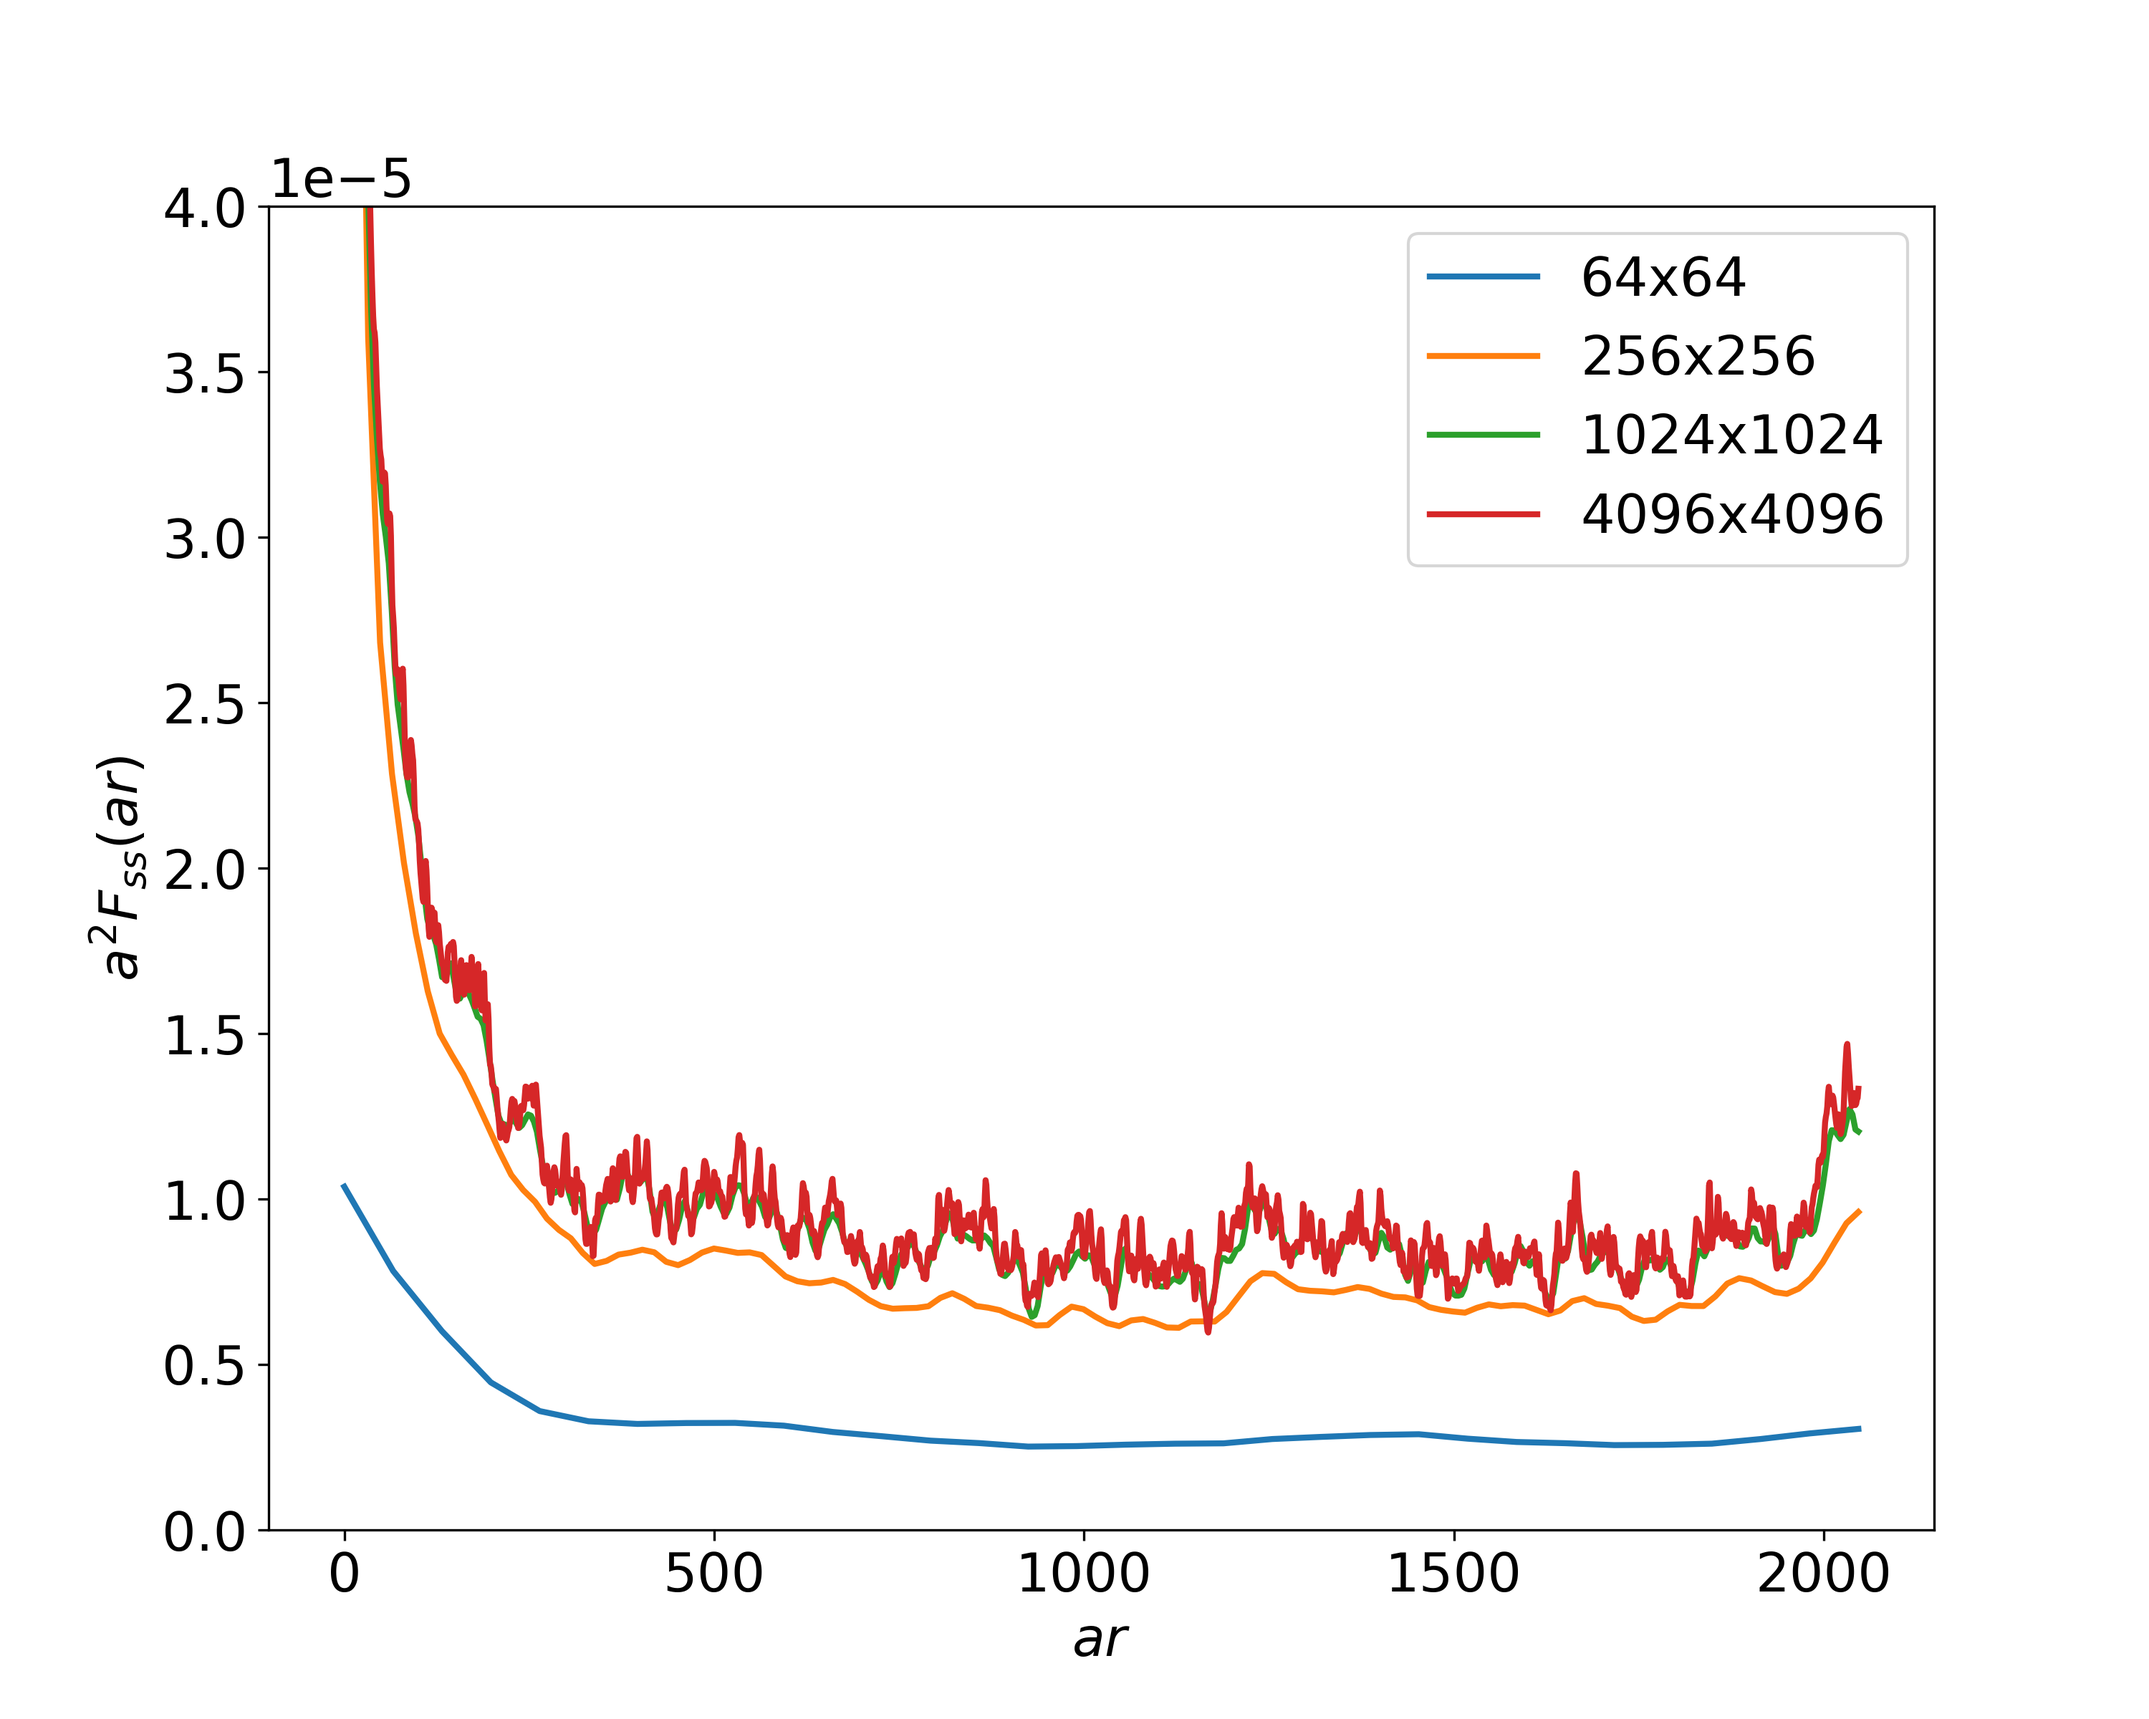
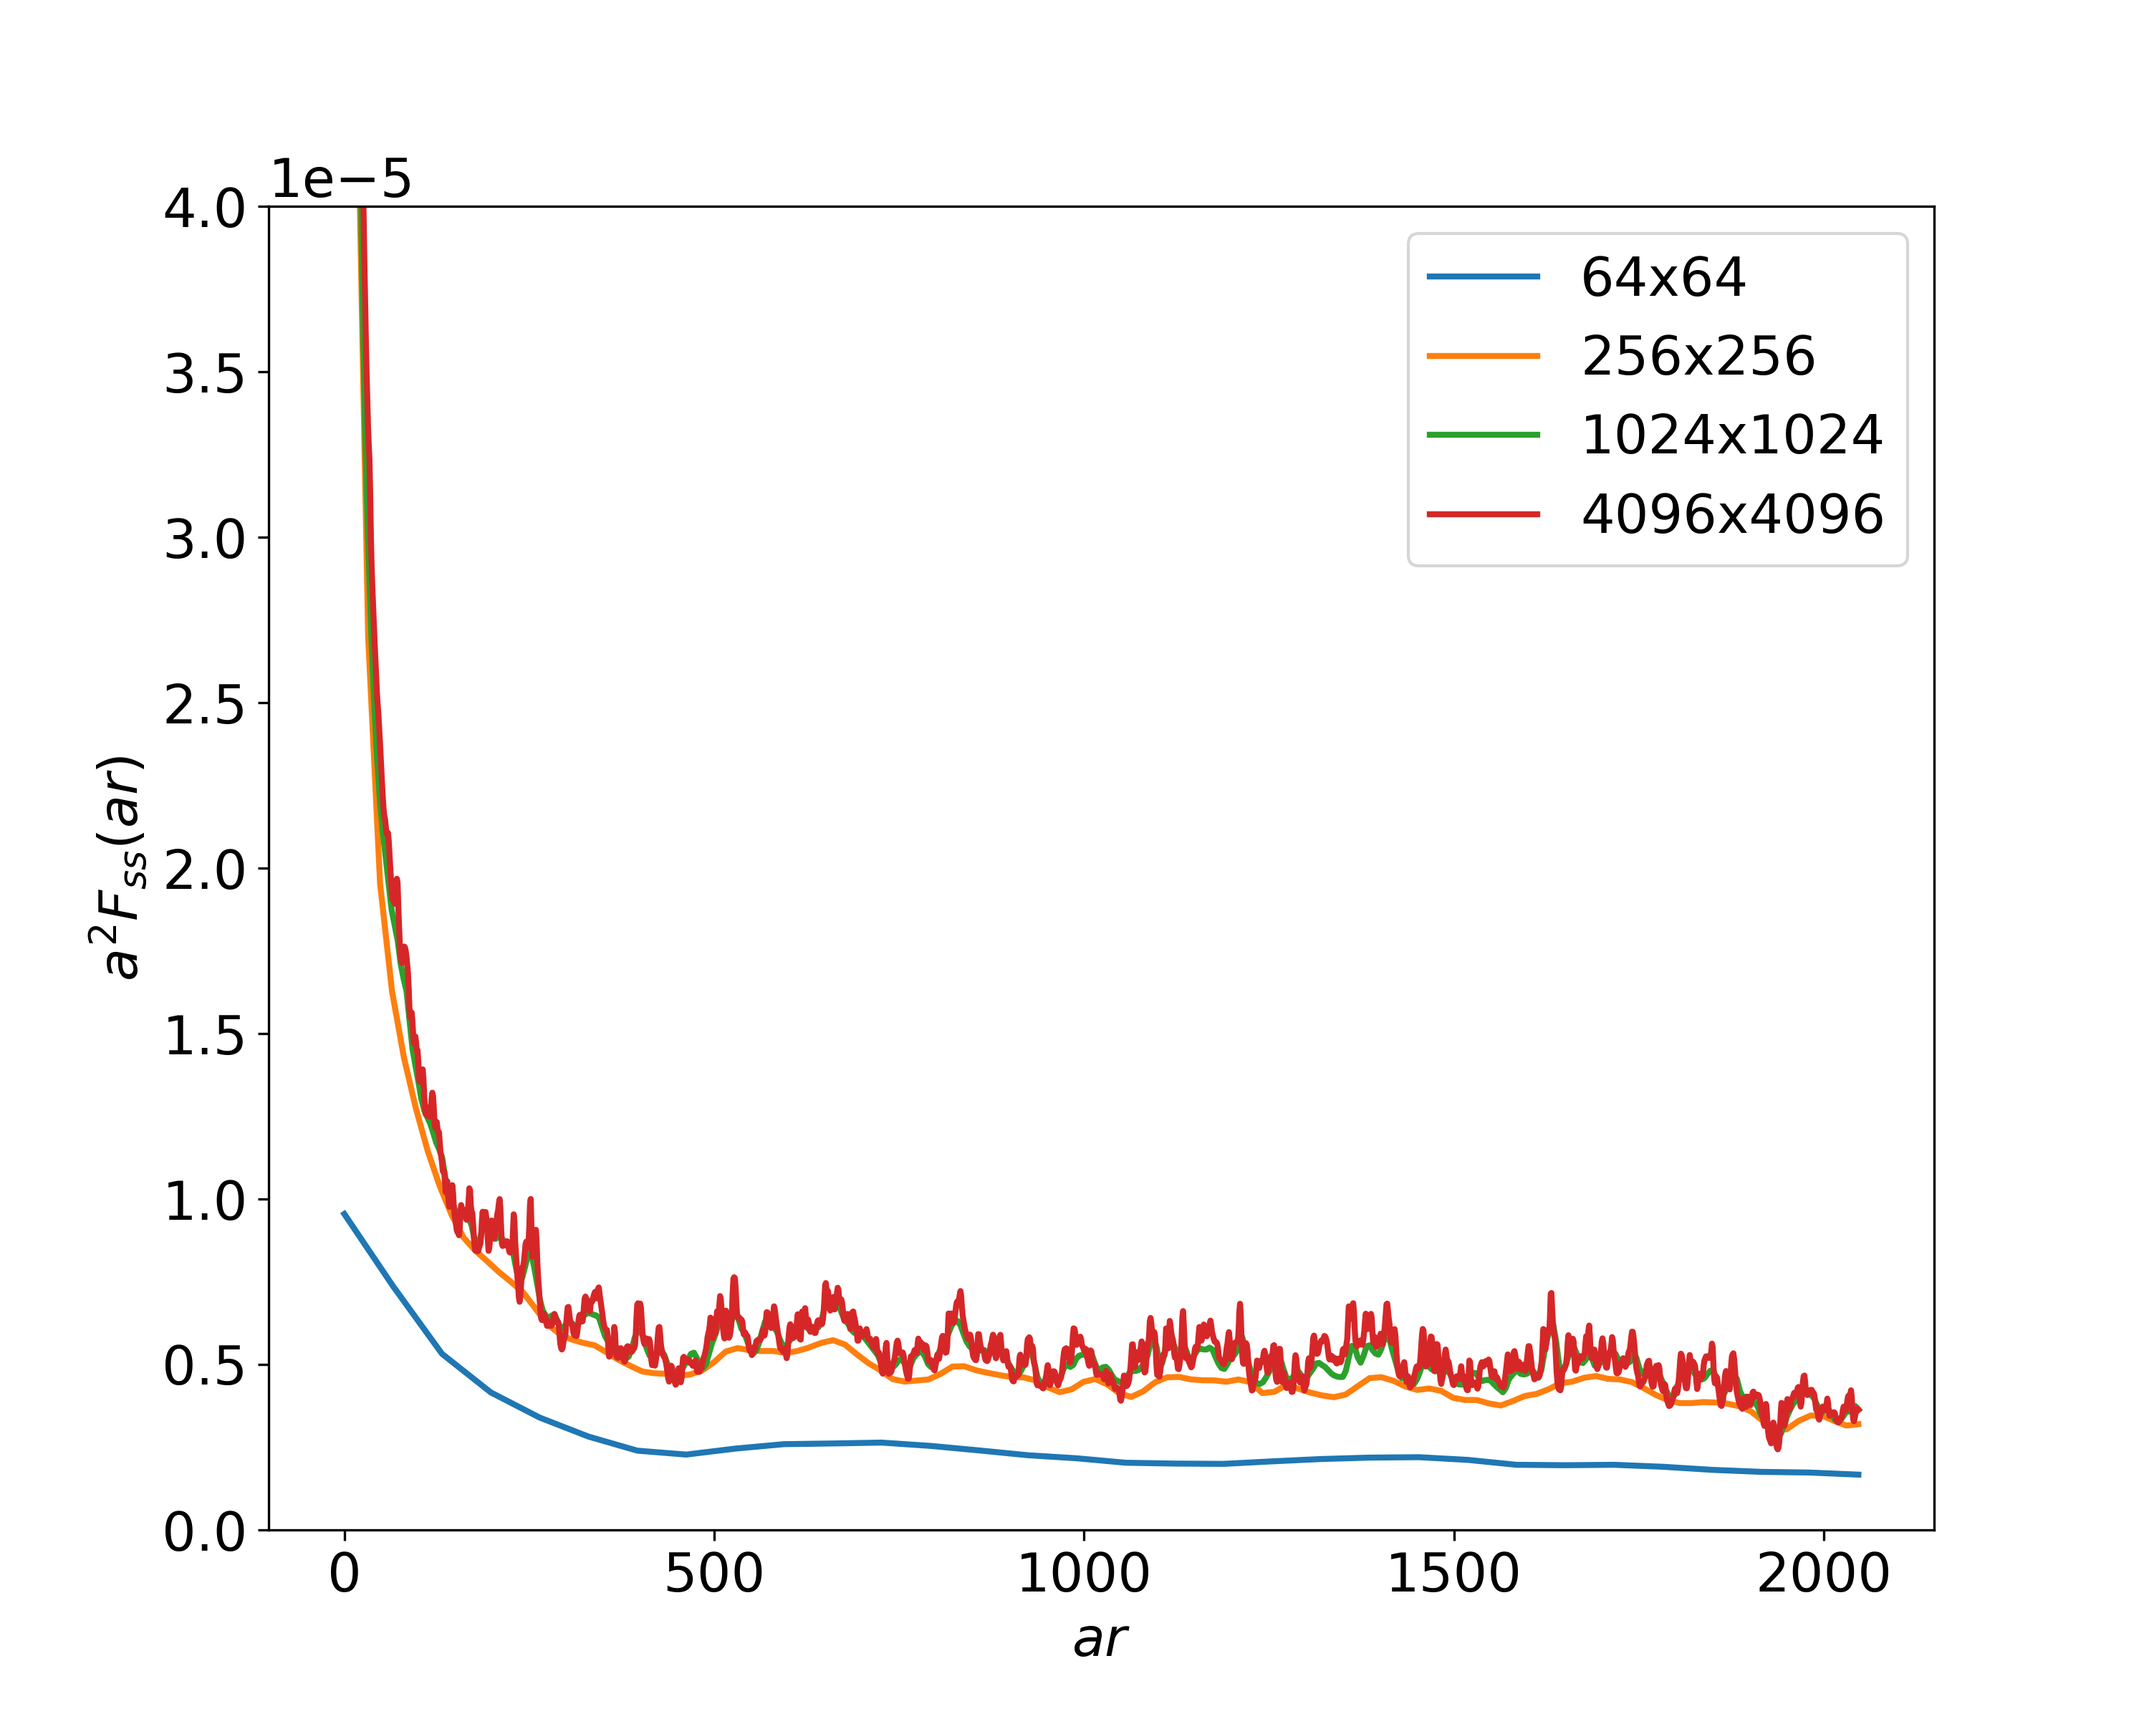
More about value noise

Changed region(s): [[0.155, 0.125, 0.868, 0.875]]

diff --git a/surf-surf.tex b/surf-surf.tex
@@ -356,7 +356,7 @@ of surface CFs for such systems.
 \label{sec:details}
 By looking at \cref{eq:twopoint,eq:fss,eq:fsv} one can observe
 some significant similarities between two-point probability and two-point
-surface functions (see \cref{fig:scheme}). The $S_2$ can be viewed as a
+surface functions (see \cref{fig:scheme}). $S_2$ can be viewed as a
 autocorrelation of the image, i.~e., computing correlations between shifted
 realization of the image -- something that can be used to effectively compute
 $S_2$ with the help of the FFT on modern hardware, especially GPUs. If we apply
@@ -364,9 +364,9 @@ the same analogy to $F_{ss}$, \cref{eq:fss} can be considered as an intersection
 of the interface with itself for all possible shifts. Recall that for the
 correlation length of zero this intersection is technically infinity
 (\cref{sec:definitions}). While surface-void function is well defined at $r=0$,
-it differs from $S_2$ in two significant aspects. First, it resembles two-point
+it differs from $S_2$ in two significant aspects. Firstly, it resembles two-point
 cross-correlation function (as instead of autocorrelation we have to compute
-correlation between the interface and the void phase). Second, such
+correlation between the interface and the void phase). Secondly, such
 cross-correlation is not commutative, so we get two surface-void functions:
 correlation between an interface and a void phase and correlation between a void
 phase and an interface. These considerations will be very useful in
@@ -377,8 +377,7 @@ understanding of our computational framework as described in this section.
 While we present and compare a bunch of sligtly different methods to evaluate
 surface CFs, they are all based on a single general algorithm for each surface
 function as desribed below ($A$ refers to the input 2D or 3D digital image, $M$
-is the interface between two phases, and $V$ is the image of the void phase as a
-suubset of the input image):
+is the interface between two phases, and $V$ is the image of the void phase only):
 
 $F_{ss}$ algorithm:
 \begin{algorithmic}[1]
@@ -407,13 +406,17 @@ $F_{sv}$ algorithm:
 \end{algorithmic}
 
 The algorithm is very general and allows to utilize different technques for
-interface extraction or computation of the correlations, as detailed below.
+interface extraction or computation of the correlations, as detailed below. The
+cross-correlation function is introduced in \cref{sec:cross-comp}. Consecutive
+stages of our method are shown in \cref{fig:stages}. It is also a part of
+\code{CorrelationFunctions.jl} package \cite{CFsjlpaper} for Julia programming
+language that allows to compute all classical CFs described in Torquato’s book
+\cite{Torquato_book} from digital images.
 
 \subsection{Interface extraction}
 We shall consider two methods for the interface extraction -- the first one is a
 naive approach, while the second is the one we propose to apply for XCT and SEM
-images. Pixels (or voxels) take value between $0$ and $1$: zero value -- inner
-part of phase, and positive value means pixel lies on the interface.
+images.
 
 \begin{figure}
   \centering
@@ -439,9 +442,10 @@ part of phase, and positive value means pixel lies on the interface.
 \end{figure}
 
 \textit{Distance map}.
-One solution to extract ane interface from an image is to use the distance map
-(also called the distance transform). Distance transform is a mapping from a
-binary image to a scalar field using one of the following functions:
+One solution to extract an interface between phases from an image is to use the
+distance map (also called the distance transform). Distance transform is a
+mapping from a binary image to a scalar field using one of the following
+functions:
 \begin{align}
   D_{o}(\mathbf{x}) &= \left\{
   \begin{array}{ll}
@@ -470,23 +474,25 @@ written as follows:
 \end{equation*}
 where $d$ is dimensionality of the image ($d = 2$ for 2D image, $d = 3$ for 3D
 image) and $D(\mathbf{x})$ is either \cref{eq:dist-outer} or
-\cref{eq:dist-outer}. When $D = D_i$ we call the resulting interface
-``inner interface'' and when $D = D_o$ we call it ``outer interface''.
+\cref{eq:dist-inner}. When $D = D_i$ we call the resulting interface
+``the inner interface'' and when $D = D_o$ we call it ``the outer interface''.
 
 \textit{Image filtering}.
 This method creates grayscale image of the interface. We use Sobel operator $S$
-to detect edges of the image $A'$, so $M = S$ in algorithms in
-\cref{sec:general}. We calculate $\|S(A')\|$ element-wise ($\|\cdot\|$ denotes
-the usual norm on Euclidean space). This norm can be interpreted as the
-probability that a point in $A$ belongs to the interface. In a digitized image
-$\|S(A')\|$ can be represented as an array of floating point numbers having the
-same shape as an original image $A$.
+to detect edges of the image, so $M = S$ in algorithms in \cref{sec:general}. We
+calculate $\|S(A')\|$ (recollect that $A' = I^{(void)}(A)$ where $A$ is the
+input image) element-wise ($\|\cdot\|$ denotes the usual norm on Euclidean
+space). This norm can be interpreted as the probability that a point in $A$
+belongs to the interface. In a digitized image $\|S(A')\|$ can be represented as
+an array of floating point numbers having the same shape as an original image
+$A$.
 
 \subsection{Computing correlation}
-We will describe method of computing cross correlation function between two
-images $f$ and $g$: $\star (f, g)$. In the case of auto correlation function we
-assume $f = g$. Algorithm is straightforward when boundary conditions are
-periodic. For non-periodic boundary conditions we will need a minor change.
+\label{sec:cross-comp}
+We will describe method of computing cross-correlation function between two
+images $f$ and $g$. In the case of autocorrelation function we assume $f =
+g$. Algorithm is straightforward when boundary conditions are periodic. For
+non-periodic boundary conditions we will need a minor change.
 
 \textit{Periodic boundary condition}
 \begin{algorithmic}[1]
@@ -522,11 +528,6 @@ periodic. For non-periodic boundary conditions we will need a minor change.
   \State \textbf{return} $cc$.
   \EndProcedure
 \end{algorithmic}
-
-Consecutive stages of our method are shown in \cref{fig:stages}. It is also a
-part of \code{CorrelationFunctions.jl} package \cite{CFsjlpaper} for Julia
-programming language that allows to compute all classical CFs described in
-Torquato’s book \cite{Torquato_book} from digital images.
 
 \section{Application to synthetic and real binary 2D/3D images}
 \label{sec:results}
@@ -584,23 +585,47 @@ assume that with increasing spatial resolution the influence of this thickness
 will diminish. This is exactly what we observe on \cref{fig:scaling} where
 increasing disk discretization leads to convergence with analytical solution;
 the accuracy of the computed CFs is almost perfect for discretization of about
-4096 pixels for each disk. A natural question arises: ``Is there a criterion of
+12000 pixels for each disk. A natural question arises: ``Is there a criterion of
 image quality (resolution) that allows to predict the quality of surface CFs
 evaluation from digital images?''. Turns out there is a possibility to establish
 such empirical criterion based on spectral analysis of input images and
 \cref{sec:crit} provides necessary details.
 
+\subsection{Convergence of correlation functions with increase of resolution}
+\label{sec:value-noise}
 Now consider a situation when an image is obtained by taking samples of a function
 $f: \mathbb{R}^n \rightarrow \left\{0, 1\right\}$. The samples are taken from a
-regular grid which covers the range $[0, 1]^n$  with interval $\Delta$ between
-samples. The resulting image has then $1/\Delta + 1$ pixels in each
-dimension. An example of $f$ is a thresholded value noise function, and an
-example of image generated by sampling this function is on
-\cref{fig:noise}. Correlation functions calculated for the noise at different
-resolutions are on \cref{fig:scaling-noise}. If we calculate surface-surface and
-surface-void correlation functions for these images and scale them as described
-above, we will converge to some ``true'' correlation functions for continuous
-function $f$.
+regulary spaced lattice which covers the range $[0, L]^n$  with interval
+$\Delta$ between samples. The resulting image has then $L/\Delta + 1$ pixels in
+each dimension. We will show empirically that for any sequence $\Delta_k$ so
+that $\Delta_{k+1} < \Delta_k$ and $\Delta_k \rightarrow 0$ sequences
+$F_{ss}^{\Delta_k}(r)$ and $F_{sv}^{\Delta_k}(r)$ computed for images with
+lattice interval $\Delta_k$ converge to some limit functions $F_{ss}(r)$ and
+$F_{sv}(r)$.
+
+An example of $f$ is a thresholded value noise function. A value noise is a
+procedurally generated noise which in one-dimensional case works as
+follows. Firstly define a family of regulary spaced lattices $U_k$ with points
+in coordinates $2^{-k}n,\ n \in \mathbb{Z}$. Each point of a lattice is assigned
+a randomly taken value in the range $[0, 1]$. Then for each $U_k$ define a
+function $g_k(x): \mathbb{R} \rightarrow \mathbb{R}$ which interpolates random
+values in $U_k$ lineary. A value noise function is defined as follows:
+\begin{align*}
+  g(x; n) &= \frac{\sum\limits_{k=0}^{n-1} 2^{-k}g_k(x)}{\sum\limits_{k=0}^{n-1}
+    2^{-k}} \\
+  &= \frac{2^n}{2^{n+1}-2} \sum\limits_{k=0}^{n-1} 2^{-k}g_k(x)
+\end{align*}
+Here $n$ is a parameter called the number of octaves. A thesholded noise is then
+\begin{align*}
+  f(x; n) = \Theta(g(x; n) - 1/2)
+\end{align*}
+where $\Theta(x)$ is the Heaviside step function. A generalization for higher
+dimensionality is constructed using the sample principle. An example of
+thesholded value noise with three octaves is on \cref{fig:noise}. Correlation
+functions calculated for the noise with $n = 3$ at different resolutions are on
+\cref{fig:scaling-noise}. If we calculate surface-surface and surface-void
+correlation functions for these images and scale them as described above, we
+will converge to some ``true'' correlation functions for continuous function $f$.
 \begin{figure}[ht]
   \centering
   \includegraphics[width=0.9\linewidth]{images/noise.png}
